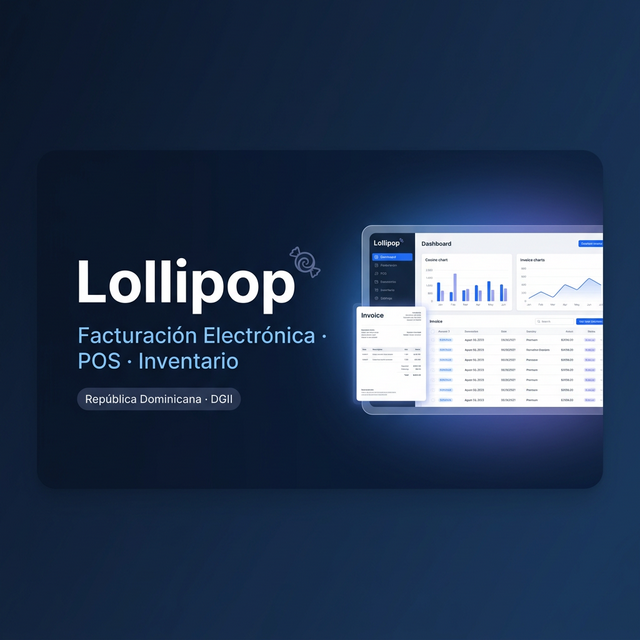
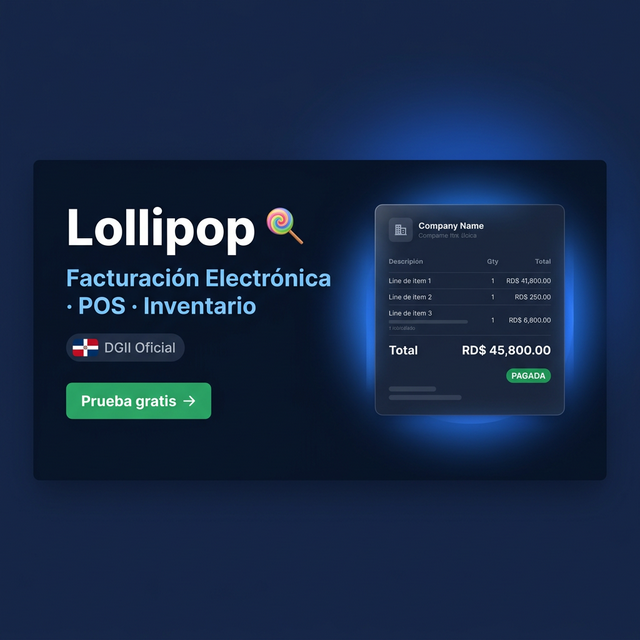
fix: OG image 1200x630, CTA button, title 52 chars
- public/og-image.png — replaced with proper 1200x630 landscape image
- opengraph-image.tsx — added green "Prueba gratis →" CTA button
- layout.tsx — og:image now uses absolute URL (APP_URL + /og-image.png)
  so WhatsApp/Facebook can always fetch it; og:title = 52 chars
- page.tsx — landing title trimmed to 52 chars (optimal 50-60 range)

Changed region(s): [[0.0938, 0.125, 0.9688, 0.75], [0.0, 0.0, 0.3125, 0.3438]]

diff --git a/src/app/layout.tsx b/src/app/layout.tsx
@@ -12,7 +12,7 @@ const APP_URL = "https://lollipop-sysfac.vercel.app";
 
 export const metadata: Metadata = {
   title: {
-    default: "Lollipop — Facturación Electrónica DGII",
+    default: "Lollipop — Sistema de Facturación Electrónica DGII RD",
     template: "%s · Lollipop",
   },
   description:
@@ -39,15 +39,15 @@ export const metadata: Metadata = {
     locale: "es_DO",
     url: APP_URL,
     siteName: "Lollipop",
-    title: "Lollipop — Facturación Electrónica DGII",
+    title: "Lollipop — Sistema de Facturación Electrónica DGII RD",
     description:
-      "Factura, vende en el punto de venta, controla inventario y genera reportes. Todo en un solo lugar. Compatible con la DGII de República Dominicana.",
+      "Factura electrónicamente, gestiona tu POS e inventario. Compatible con e-CF y NCF de la DGII. Prueba gratis hoy.",
     images: [
       {
-        url: "/og-image.png",
+        url: `${APP_URL}/og-image.png`,
         width: 1200,
         height: 630,
-        alt: "Lollipop — Sistema de Facturación Electrónica para RD",
+        alt: "Lollipop — Sistema de Facturación Electrónica para República Dominicana",
         type: "image/png",
       },
     ],
@@ -56,10 +56,10 @@ export const metadata: Metadata = {
   // ── Twitter / X Card ──
   twitter: {
     card: "summary_large_image",
-    title: "Lollipop — Facturación Electrónica DGII",
+    title: "Lollipop — Sistema de Facturación Electrónica DGII RD",
     description:
-      "Facturación electrónica, POS e inventario para República Dominicana. Compatible con e-CF y NCF.",
-    images: ["/og-image.png"],
+      "Factura electrónicamente, gestiona tu POS e inventario. Compatible con e-CF y NCF de la DGII. Prueba gratis hoy.",
+    images: [`${APP_URL}/og-image.png`],
     creator: "@lollipopapp",
   },
 

diff --git a/src/app/opengraph-image.tsx b/src/app/opengraph-image.tsx
@@ -127,12 +127,13 @@ export default async function OgImage() {
                         e-CF · NCF · POS · Inventario · Cotizaciones
                     </div>
 
-                    {/* Badge */}
+                    {/* Badges */}
                     <div
                         style={{
                             display: "flex",
                             alignItems: "center",
                             gap: "10px",
+                            marginBottom: "28px",
                         }}
                     >
                         <div
@@ -160,6 +161,29 @@ export default async function OgImage() {
                             }}
                         >
                             DGII Oficial
+                        </div>
+                    </div>
+
+                    {/* CTA Button */}
+                    <div
+                        style={{
+                            display: "flex",
+                            alignItems: "center",
+                        }}
+                    >
+                        <div
+                            style={{
+                                padding: "14px 32px",
+                                borderRadius: "12px",
+                                background: "linear-gradient(135deg, #16a34a, #15803d)",
+                                color: "#ffffff",
+                                fontSize: "18px",
+                                fontWeight: "800",
+                                letterSpacing: "-0.3px",
+                                boxShadow: "0 8px 24px rgba(22,163,74,0.35), 0 0 0 1px rgba(22,163,74,0.2)",
+                            }}
+                        >
+                            Prueba gratis →
                         </div>
                     </div>
                 </div>

diff --git a/src/app/page.tsx b/src/app/page.tsx
@@ -10,7 +10,7 @@ import { FAQ } from "@/components/landing/FAQ";
 import { Footer } from "@/components/landing/Footer";
 
 export const metadata: Metadata = {
-  title: "Lollipop — Facturación Electrónica DGII para República Dominicana",
+  title: "Lollipop — Sistema de Facturación Electrónica DGII RD",
   description:
     "Factura electrónicamente con e-CF y NCF, gestiona tu POS, inventario y más. La solución más completa para empresas dominicanas.",
   openGraph: {
